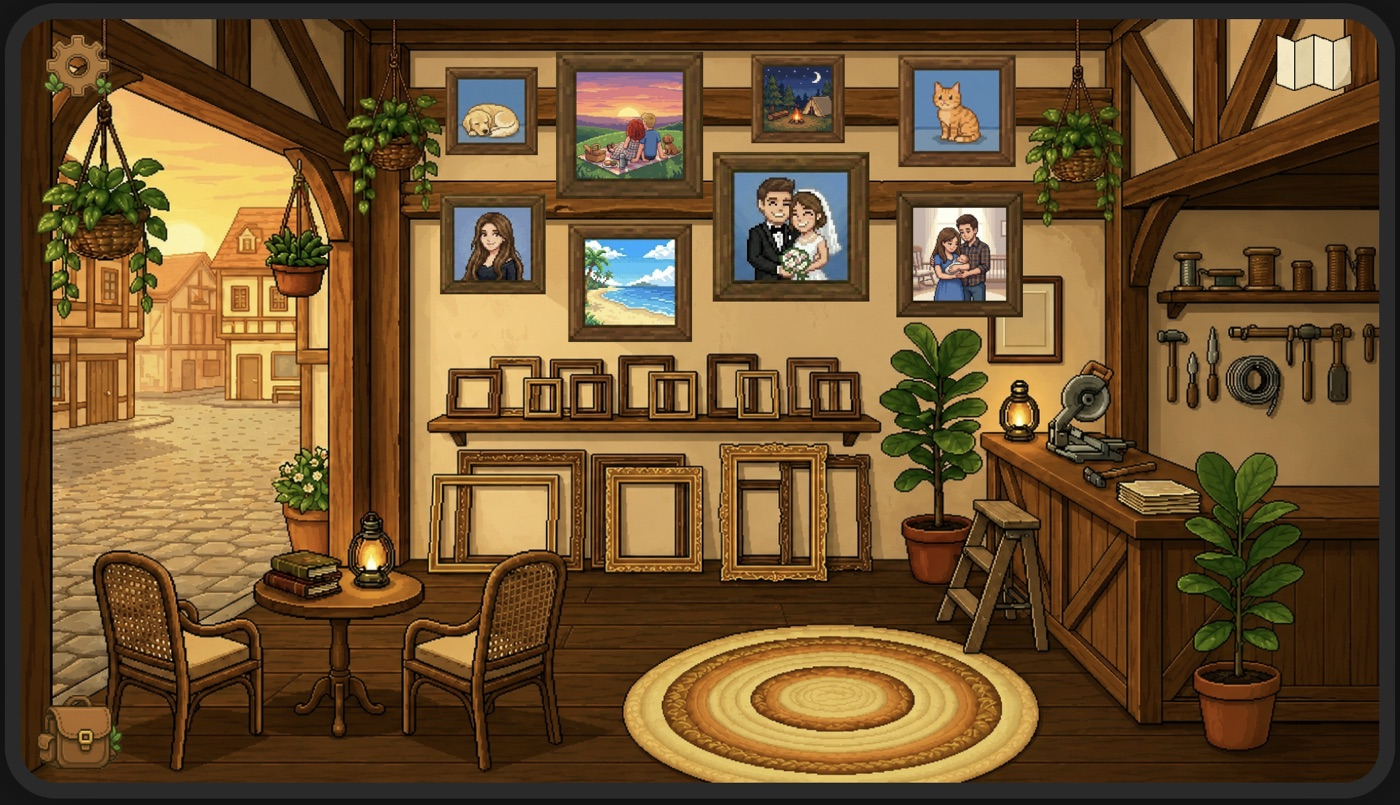
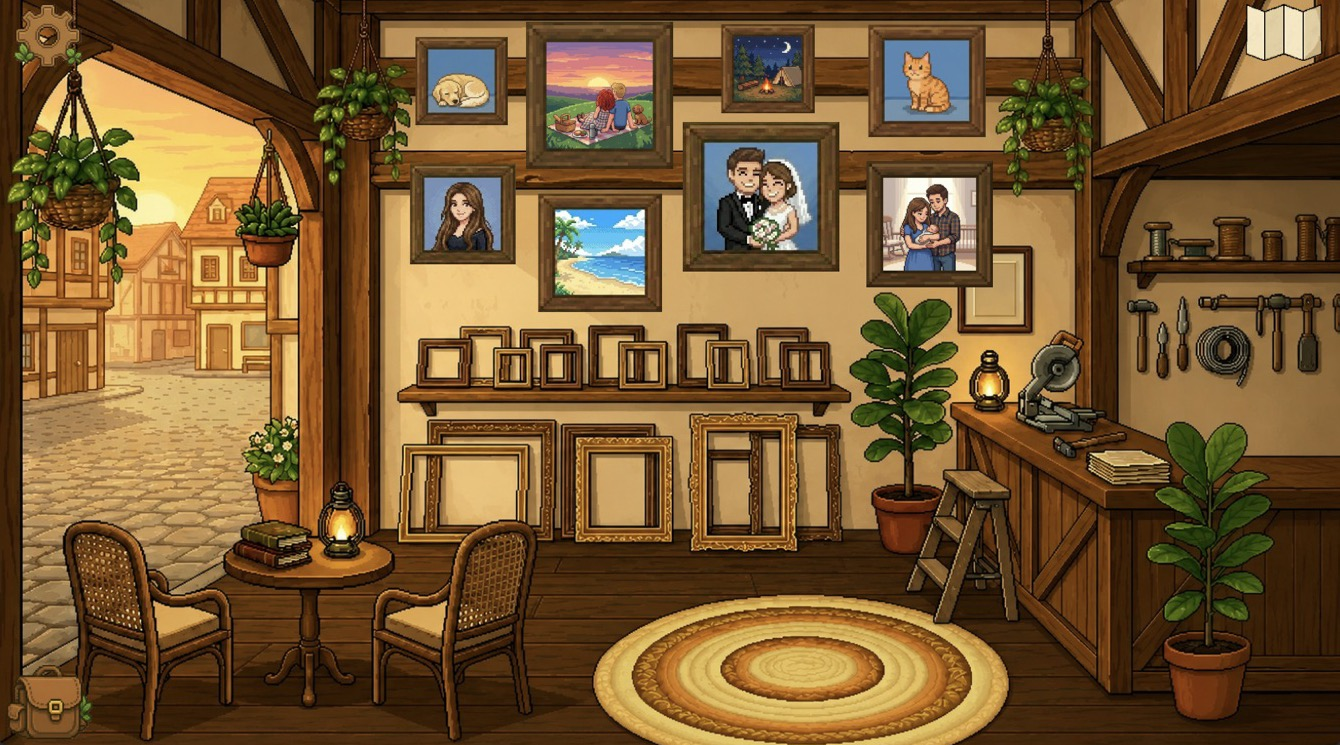
Crop Potted screenshot borders

diff --git a/styles.css b/styles.css
@@ -119,10 +119,10 @@ a:focus-visible{box-shadow:0 0 0 2px var(--paper),0 0 0 4px #6d56aa}
 @media(max-width:620px){.about-logo{width:155px;margin-left:-8px;margin-bottom:4px}}
 
 
-.potted-carousel{position:relative;border-radius:10px;overflow:hidden;background:#1d1a24;box-shadow:0 0 0 1px #e4dced,0 18px 44px #39294b1f;aspect-ratio:1400 / 800}
+.potted-carousel{position:relative;border-radius:10px;overflow:hidden;background:#1d1a24;box-shadow:0 0 0 1px #e4dced,0 18px 44px #39294b1f;aspect-ratio:1340 / 747}
 .carousel-track{display:flex;height:100%;transition:transform .55s cubic-bezier(.65,0,.25,1)}
 .carousel-slide{flex:0 0 100%;margin:0;height:100%}
-.carousel-slide img{display:block;width:100%;height:100%;object-fit:cover}
+.carousel-slide img{display:block;width:100%;height:100%;object-fit:cover;transform:scale(1.03)}
 .carousel-btn{position:absolute;top:50%;transform:translateY(-50%);width:40px;height:40px;border:0;border-radius:50%;background:#ffffffe6;color:#281f3b;font-size:24px;line-height:1;cursor:pointer;box-shadow:0 4px 14px #0003;opacity:0;transition:opacity .2s,background .2s}
 .potted-carousel:hover .carousel-btn,.carousel-btn:focus-visible{opacity:1}
 .carousel-btn:hover{background:#fff}
